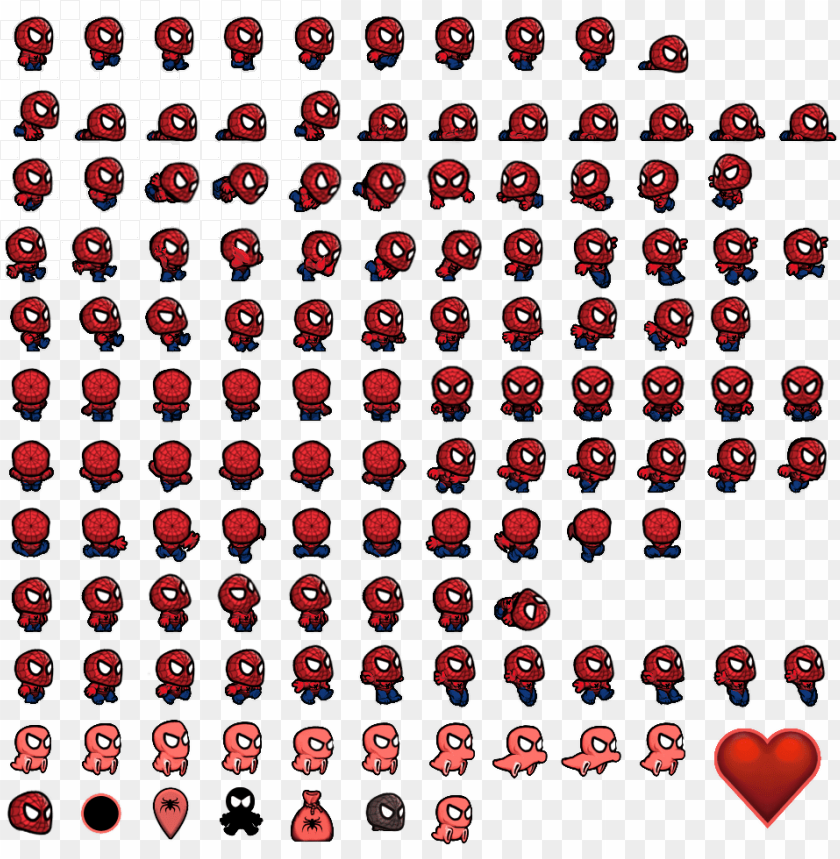
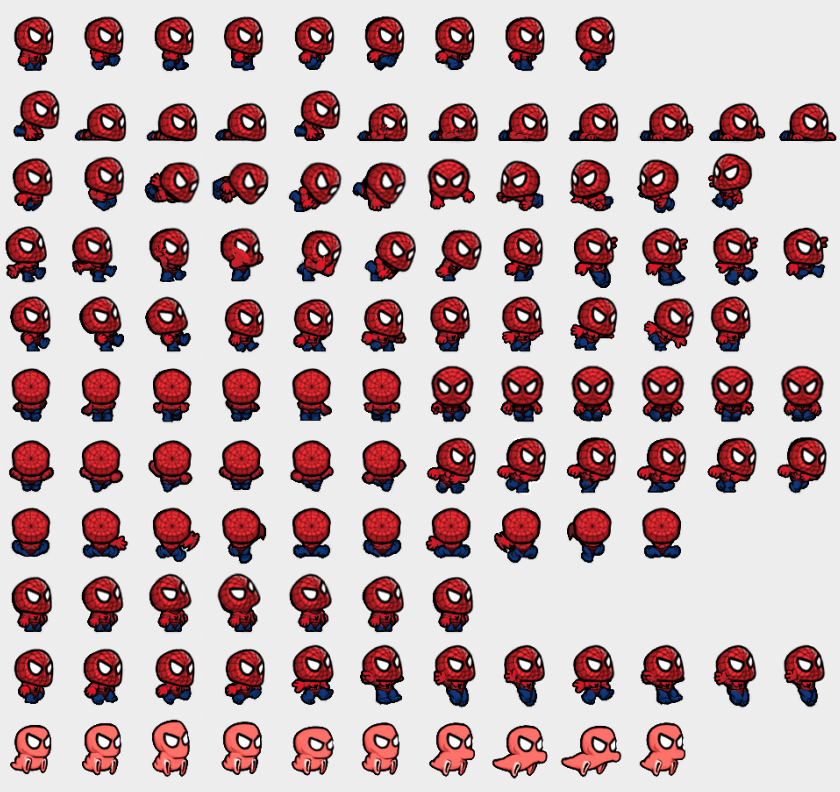
Faz correções na folha de sprite

diff --git a/index.html b/index.html
@@ -20,7 +20,7 @@
         miranha.addEventListener("load", terminouDeCarregar);
 
         function desenhaFundo(){
-            ctx.fillStyle = "white";
+            ctx.fillStyle = "#ededed";
             ctx.fillRect(0,0, canvas.width, canvas.height);
         }
         let l = 2;
@@ -60,7 +60,7 @@
             //sx, sy, sw, sh
             Math.floor(quadro)*70, pose*71, 70, 71,
             //dx, dy, dw, dh
-            0, 0, 70, 71
+            0, -5, 70, 71
             );
             requestAnimationFrame(passo);
             t0 = t; 
